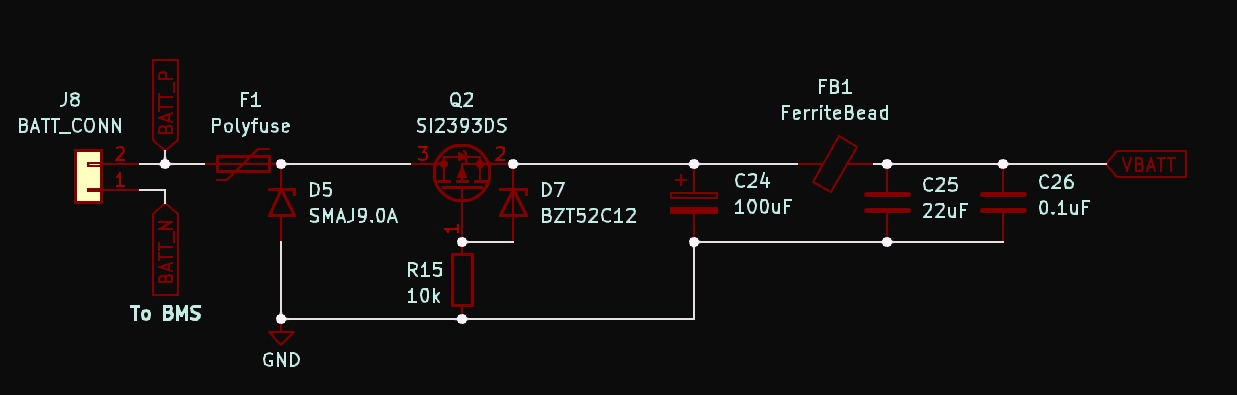
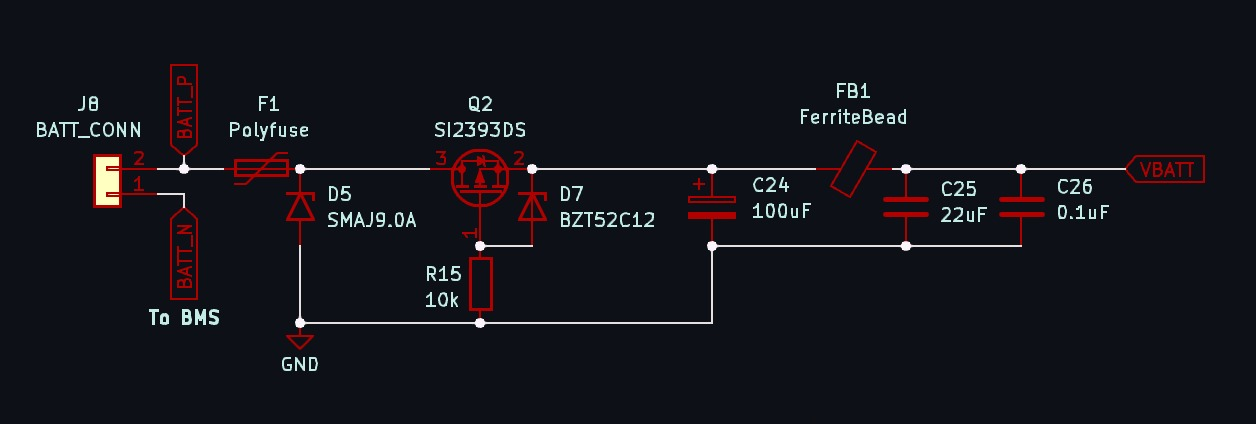
two img

Changed region(s): [[0.0, 0.1215, 0.983, 0.9418], [0.6144, 0.1823, 0.7373, 0.3038]]

diff --git a/README.md b/README.md
@@ -102,6 +102,10 @@ I encourage you to clone the repo or you use [KiCanvas](https://kicanvas.org/) t
   <img src="/media/images/circuits/power_entry.png" width="700">
 </p>
 
+<p align="center">
+  <img src="/media/images/circuits/bms.png" width="700">
+</p>
+
 ### MCU
 ### Sensors 
 ### Vision